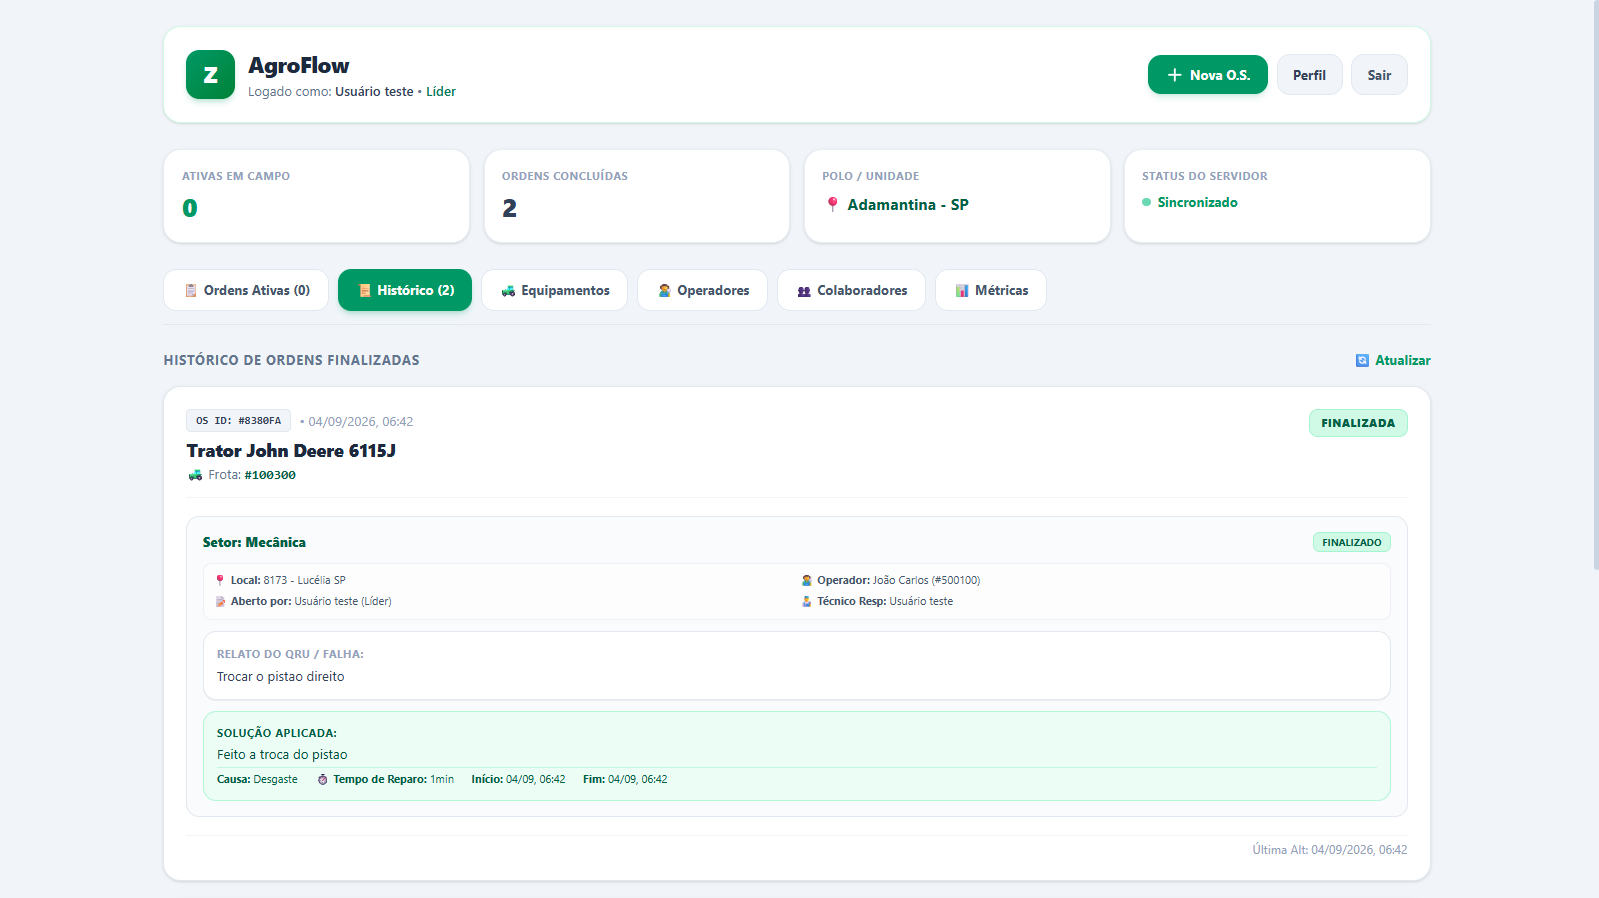
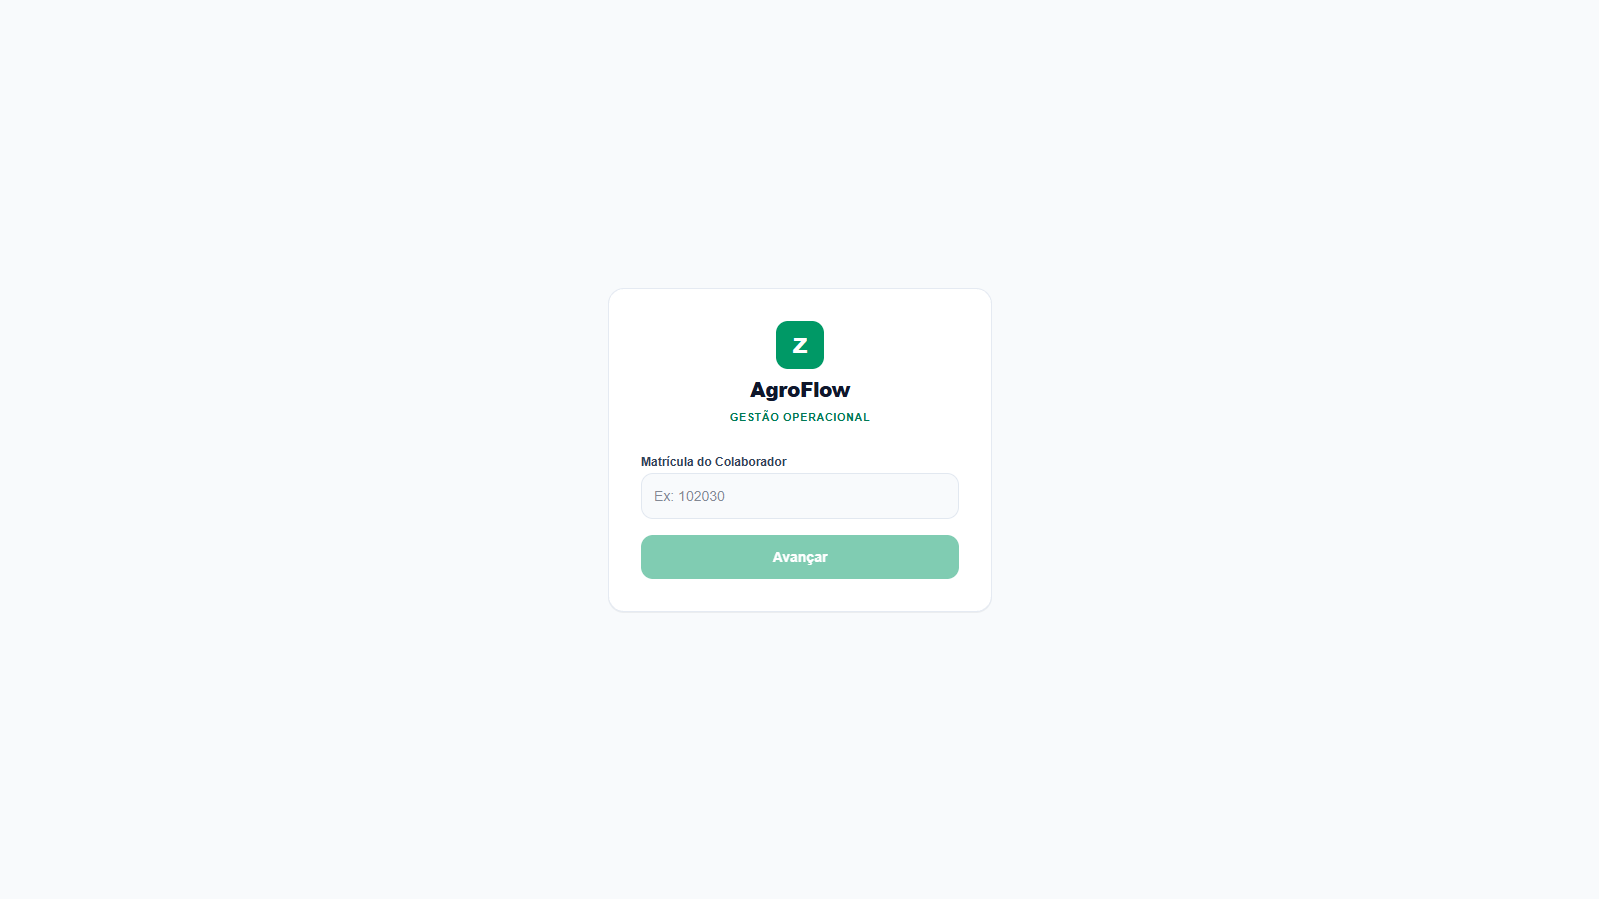
adicionando o projeto agro-flow

diff --git a/src/data/projects.ts b/src/data/projects.ts
@@ -31,5 +31,36 @@ export const DataProjects: DataProjectProps[] = [
         "Interface moderna, fluida e responsiva com abordagem Mobile-First via Tailwind CSS."
       ]
     }
+  },
+  {
+    id: "1",
+    title: "AgroFlow – Fleet & Work Order CMMS",
+    description:
+      "Sistema web full-stack para gestão de ordens de serviço, atendimento por setor e manutenção de frotas e equipamentos agrícolas com controle de acesso por perfil.",
+    techs: [
+      "Next.js",
+      "React",
+      "TypeScript",
+      "Tailwind CSS",
+      "Node.js",
+      "Fastify",
+      "Prisma ORM",
+      "MongoDB",
+      "JWT",
+      "RBAC",
+    ],
+    image: "/agro-flow.png",
+    category: "Fullstack",
+    githubUrl: "https://github.com/jonatasem/agro-flow",
+    deployUrl: "https://agro-flow-ivory.vercel.app",
+    details: {
+      overview:
+        "AgroFlow é uma aplicação full-stack desenvolvida para centralizar a abertura de ordens de serviço por equipamento/frota, o acompanhamento de atendimentos por setor e o cálculo do tempo de manutenção operacional.",
+      architecture: [
+        "Frontend em Next.js (App Router) com TypeScript e Tailwind CSS em abordagem Mobile-First, utilizando cards responsivos no celular e tabela no desktop.",
+        "Backend em Node.js e Fastify com arquitetura modular de controllers e services, autenticação JWT, validação e controle de acesso baseado em perfis (RBAC).",
+        "Persistência com Prisma ORM e MongoDB, agrupando chamados na mesma O.S. aberta e gerenciando estados de setor (iniciar, pausar, retomar e finalizar).",
+      ],
+    },
   }
 ];
